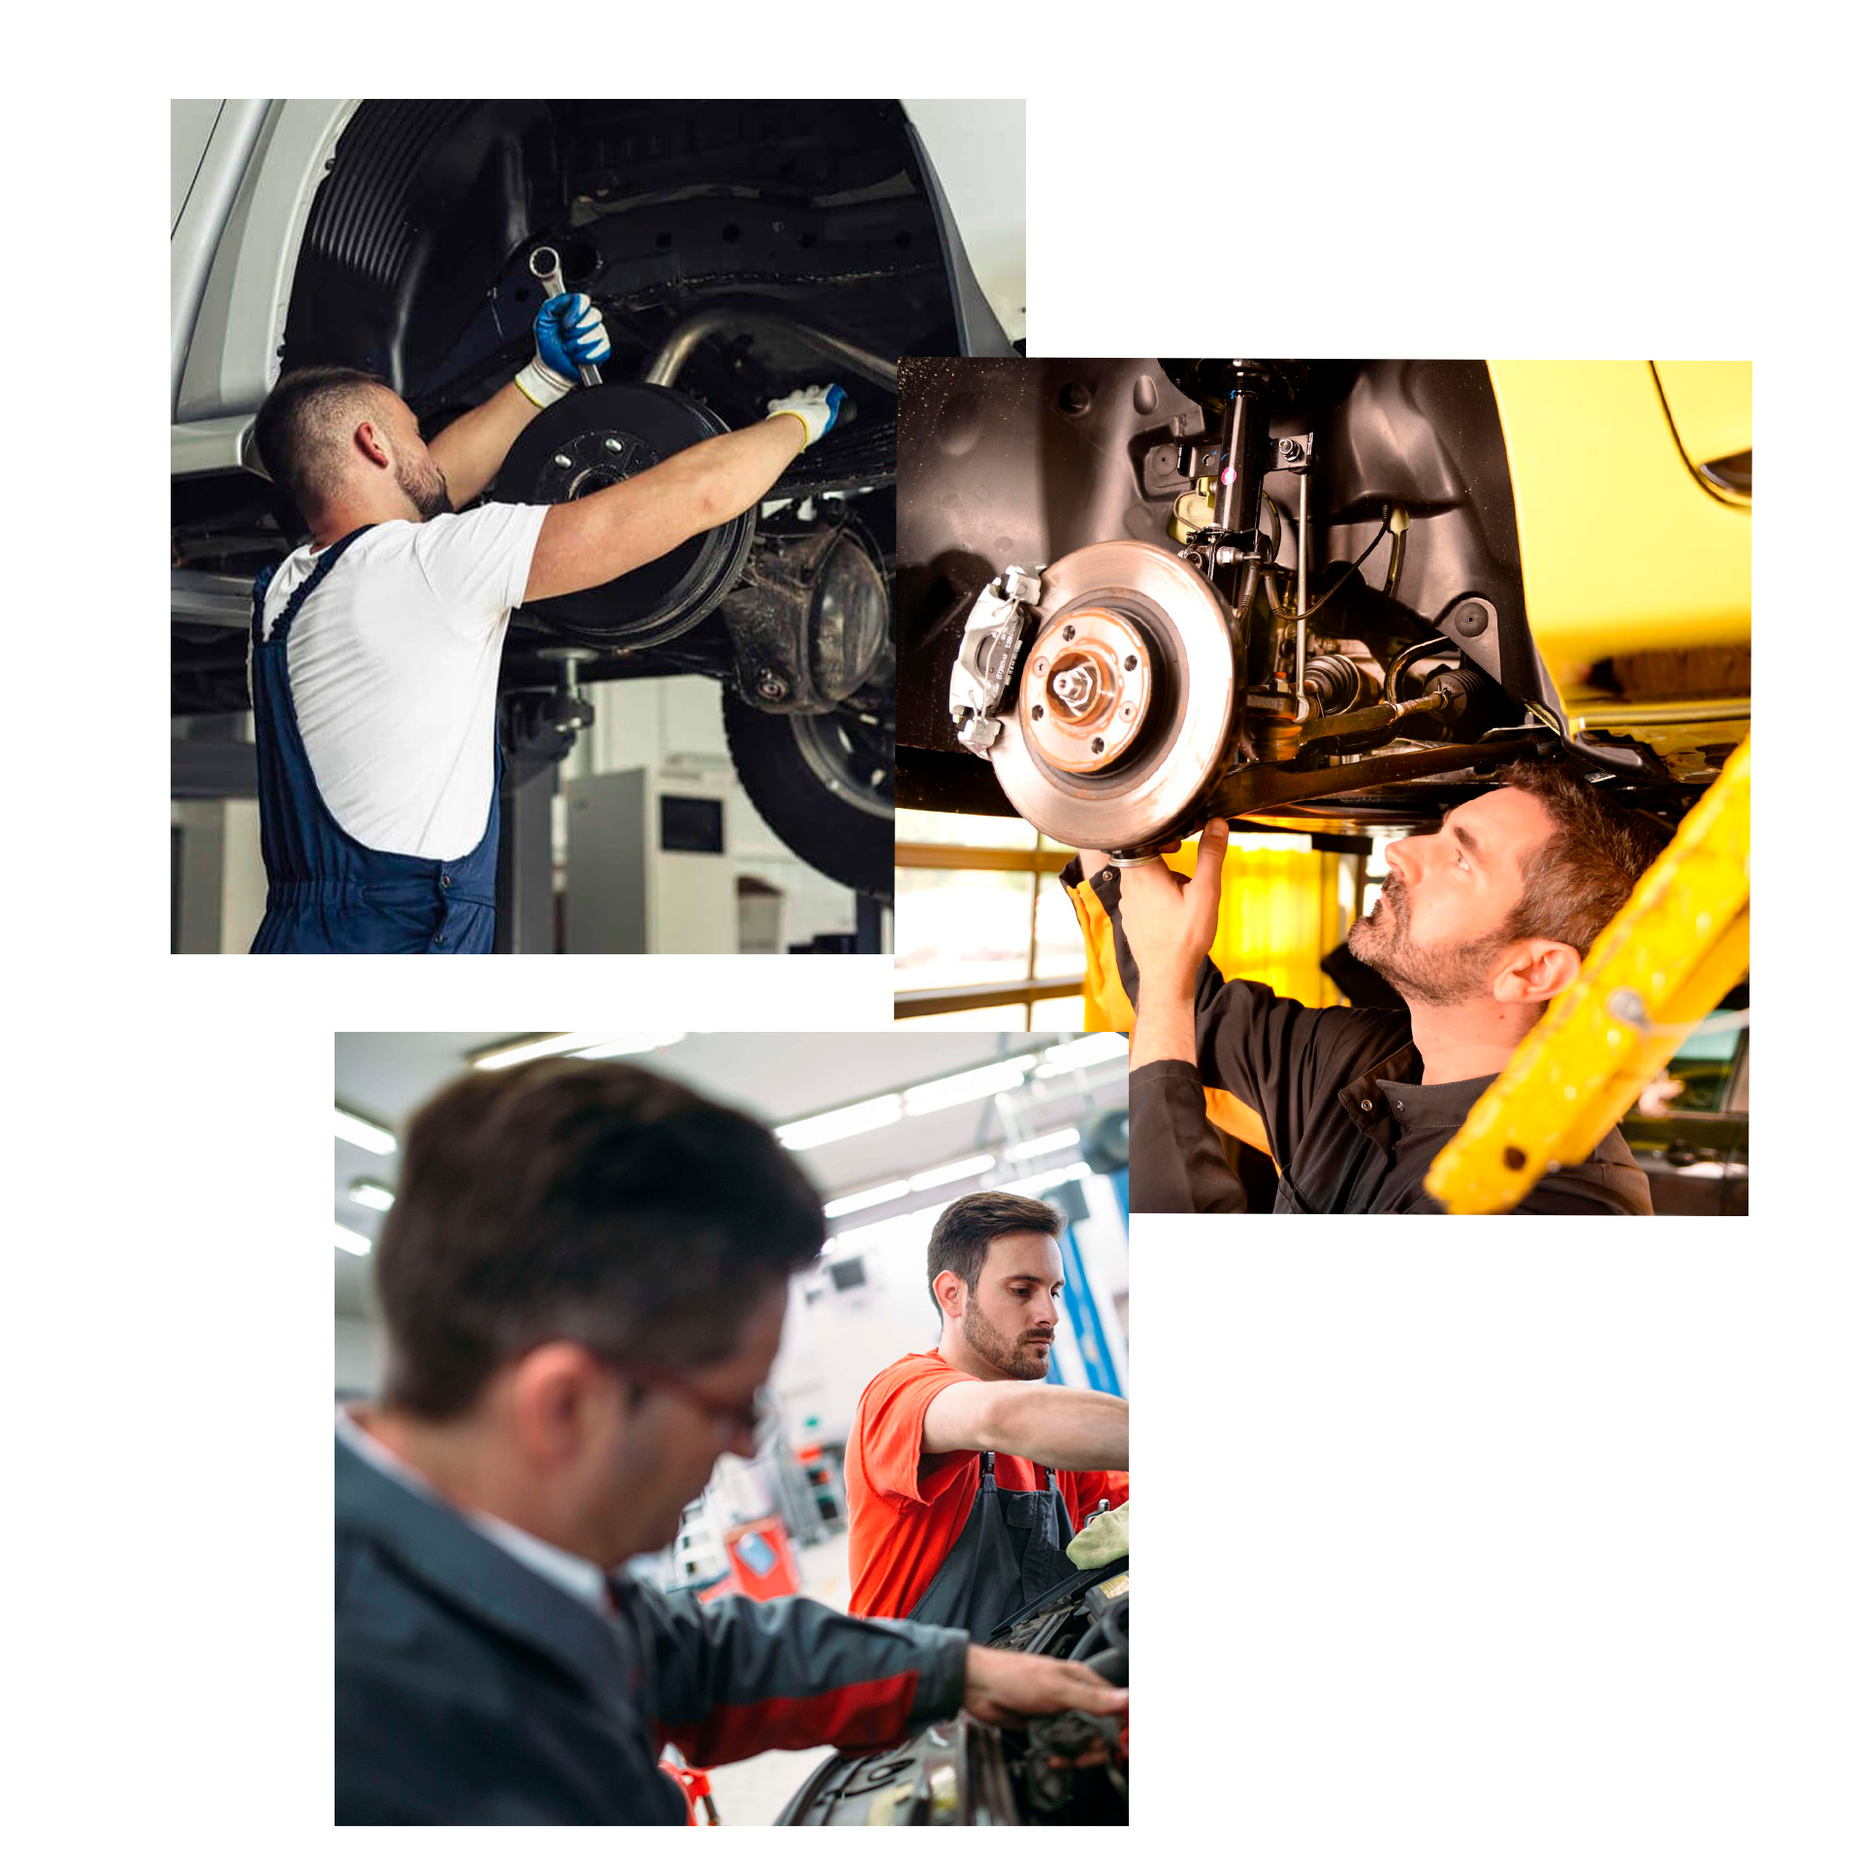
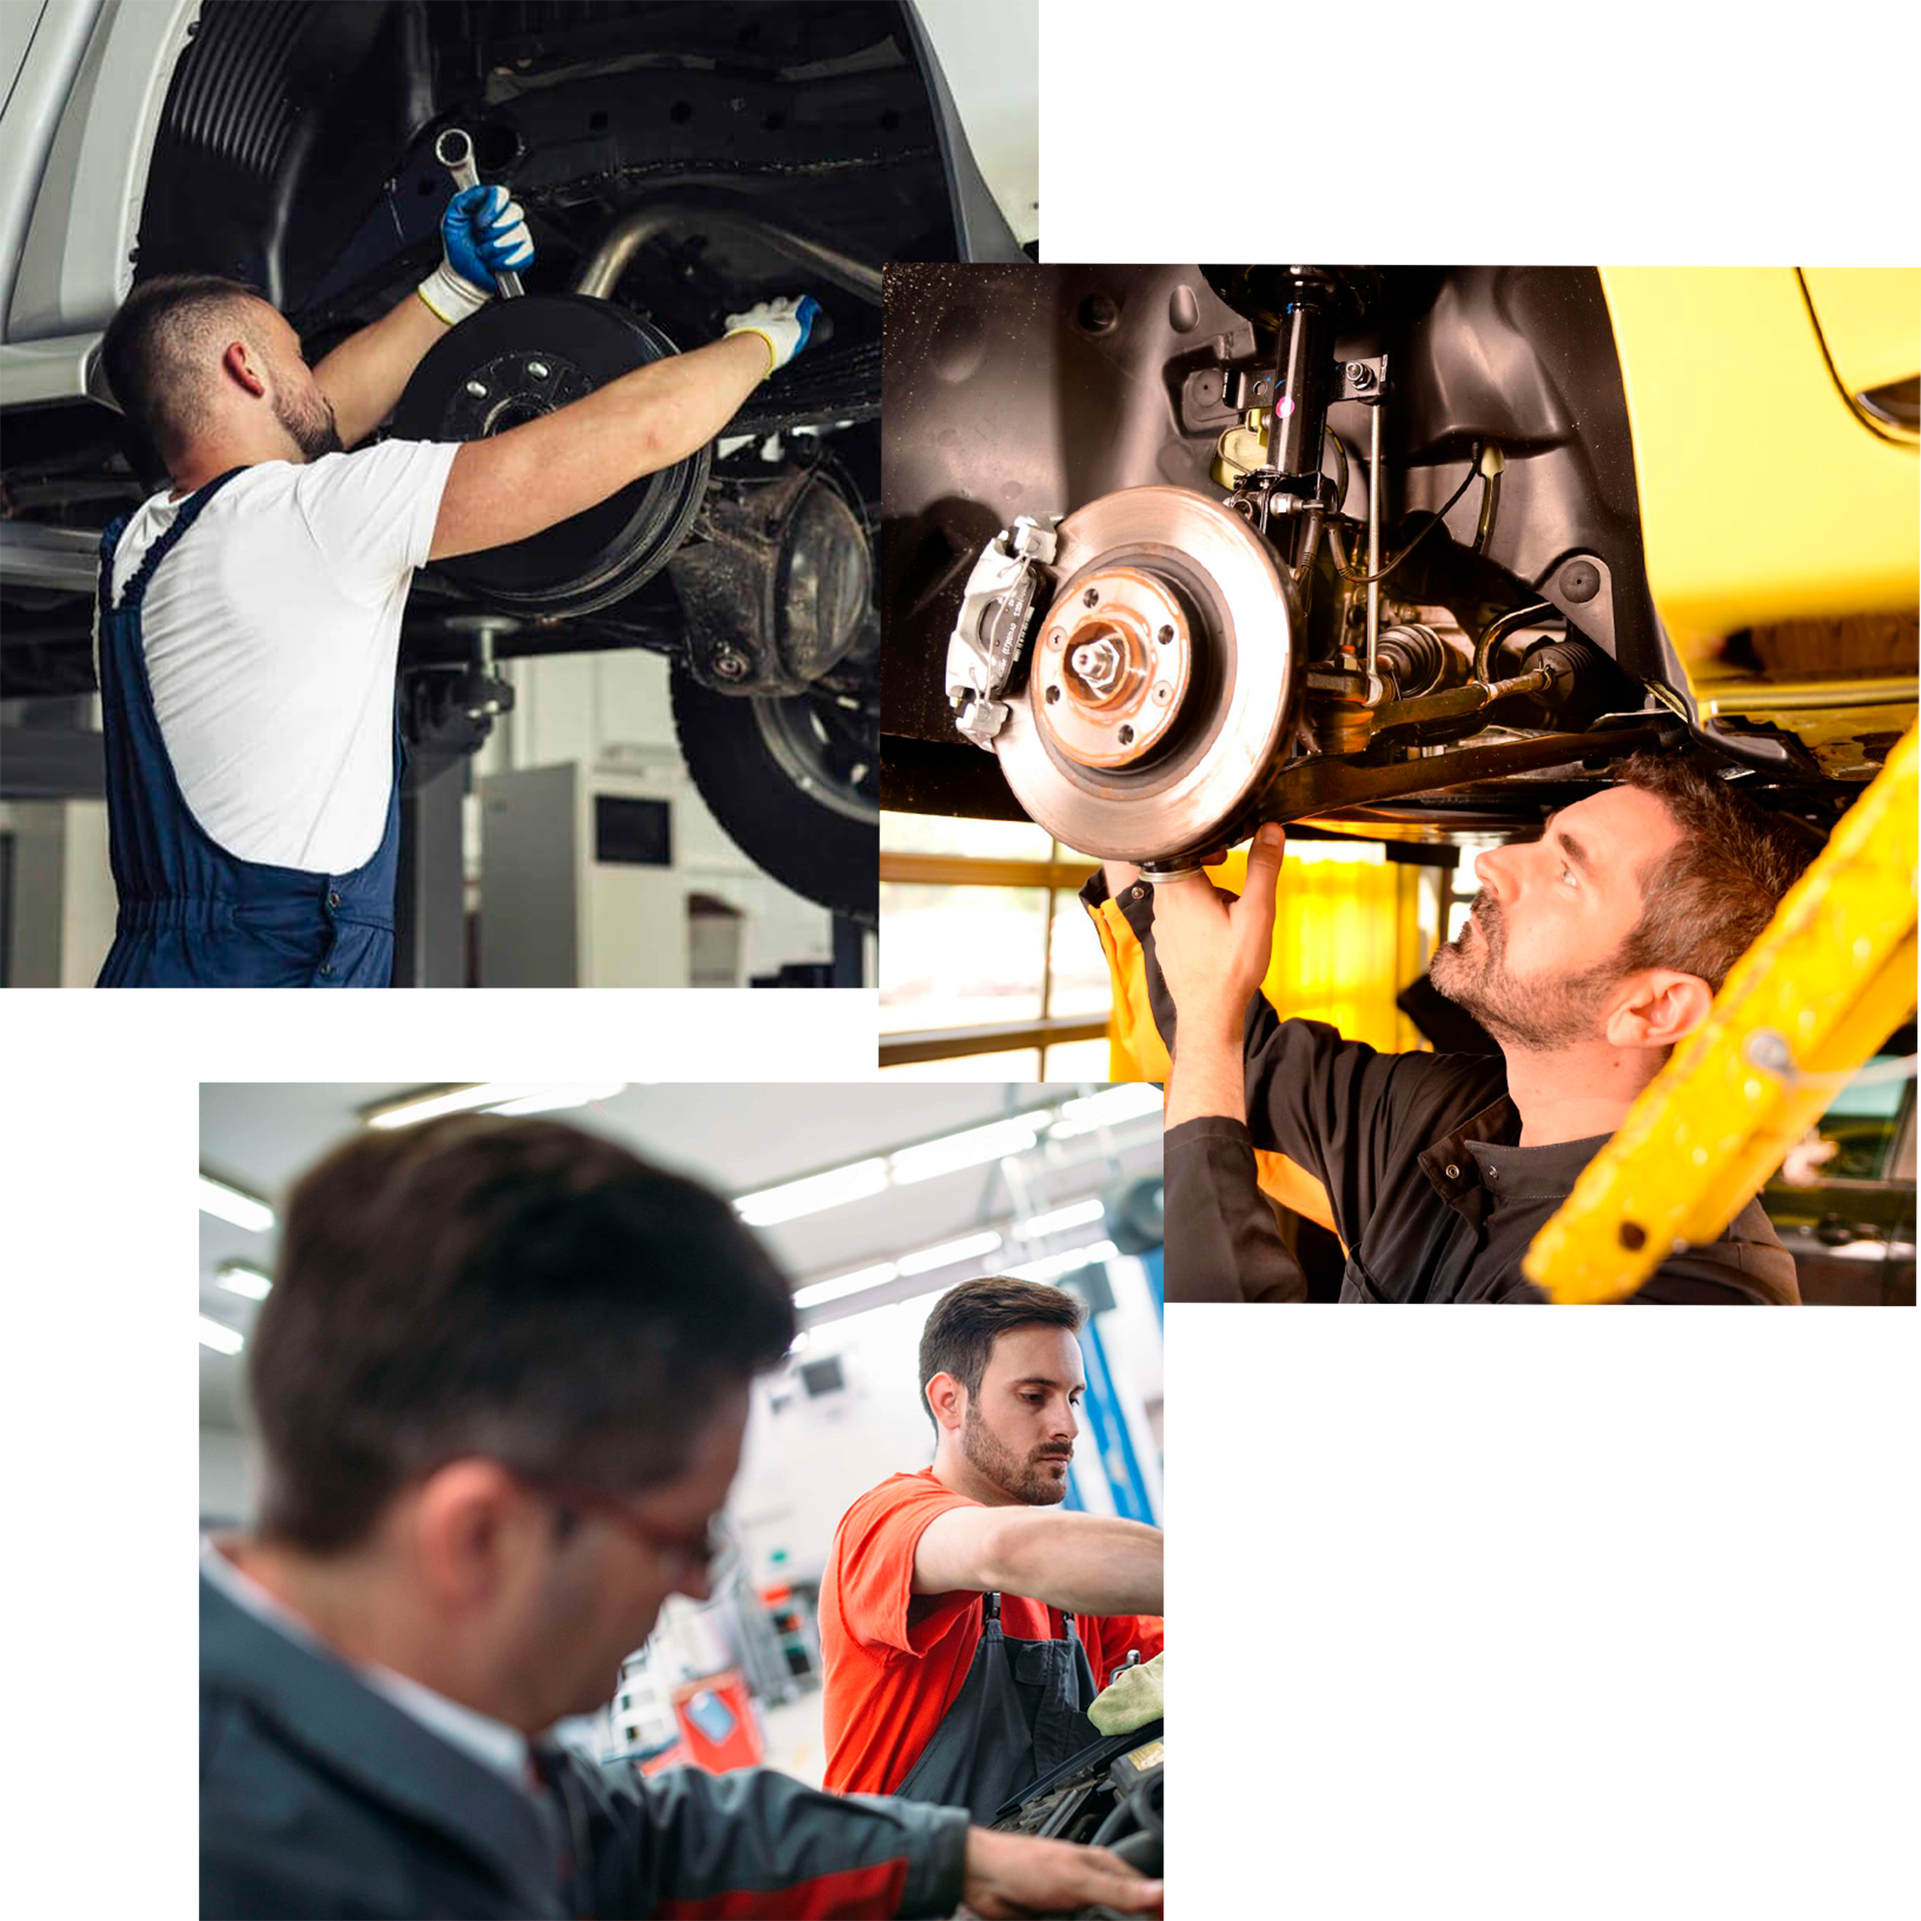
Atualização pag

diff --git a/partials/_layout.scss b/partials/_layout.scss
@@ -1,9 +1,9 @@
-
 .container{
-    max-width: 1440px;
-    margin: 0 auto;
-    padding: 0 8px;
-  }
+  max-width: 1440px;
+  margin: 0 auto;
+  padding: 0 90px;
+}
+
   
   // BG HOME
   
@@ -70,6 +70,8 @@
           width: 100%;
         }
       }
+
+      
 }
 
 //-- FINAL HERO --//
@@ -90,7 +92,8 @@
     align-items: center;
     justify-content: center;
     gap: 14px;
-    padding: 34px 14px 64px 14px;
+    padding: 34px 10px 64px 14px;
+    margin: 80px;
     img {
       max-width: 570px;
     }
@@ -122,11 +125,78 @@
         align-items: center;
         text-align: center;
       }
-    }
-
-    
-
-
-    
+    }  
   }
 
+  //----SERVIÇOS-----//
+
+  .services {
+    background-color: $white-normal;
+    color: $black-normal;
+    display: flex;
+    flex-direction: column;
+    align-items: center;
+    justify-content: center;
+    padding: 54px 14px;
+  }
+
+  .servicesContent h2 {
+    text-transform: uppercase;
+    text-align: center;
+    font-size: 38px;
+    margin-bottom: 14px;
+  }
+
+  .servicesContent p {
+    line-height: 150%;
+    margin-bottom: 14px;
+    text-align: center;
+    max-width: 780px;
+  }
+
+  .tipesServices {
+    display: flex;
+    justify-content: center;
+    align-items: center;
+    gap: 14px;
+    padding: 0 44px 34px 44px;
+  }
+  
+  .service {
+    flex: 1;
+    display: flex;
+    flex-direction: column;
+    background-color: $white-normal;
+    border-radius: 8px;
+    box-shadow: 0 -2px 17px -4px rgba($color: #000, $alpha: 0.8);
+    overflow: hidden;
+
+    img {
+      width: 100%;
+      max-width: 354px;
+      transition: transform 0.4s;
+    }
+
+  }
+
+  .service img:hover {
+    transform: scale(1.4);
+    z-index: 1;
+  }
+
+  .serviceInfo {
+    width: 100%;
+    display: flex;
+    justify-content: space-between;
+    padding: 14px;
+    background-color: $white-normal;
+    z-index: 99;
+  }
+
+  .serviceInfo button {
+    background-color: $red-light;
+    color: $white-normal;
+    padding: 3px 5px;
+    border: none;
+    border-radius: 5px;
+  }

diff --git a/index.html b/index.html
@@ -58,7 +58,7 @@
     </div>
      <!-- ABOUT -->
      <section class="about">
-        <div class="container about-content">
+        <div class="about-content container">
             <div class="imgContainer">
                 <img 
                 src="../Mecanica-dev/assets/serviços.png" 
@@ -75,5 +75,42 @@
         </div>
     </section>
 
+    <!--Services-->
+    <section class="services">
+        <div class="servicesContent container">
+            <h2>Serviços</h2>
+            <p>Lorem ipsum dolor sit amet consectetur adipisicing elit. Nisi qui expedita perspiciatis quas aspernatur magni, sed rem repellat veritatis, obcaecati quaerat eveniet aliquam laudantium asperiores fugit, doloribus aut ducimus perferendis?</p>
+
+        </div>
+        <section class="tipesServices container">
+            <div class="service">
+                <img src="../Mecanica-dev/assets/img1.jpg" alt="cortando o cabelo">
+                <div class="serviceInfo">
+                    <strong>Revisão</strong>
+                    <button>R$200,00</button>
+                </div>
+            </div>
+            <div class="service">
+                <img src="../Mecanica-dev/assets/img2.jpg" alt="cortando o cabelo">
+                <div class="serviceInfo">
+                    <strong>Revisão</strong>
+                    <button>R$200,00</button>
+                </div>
+            </div>
+            <div class="service">
+                <img src="../Mecanica-dev/assets/img3.jpg" alt="cortando o cabelo">
+                <div class="serviceInfo">
+                    <strong>Revisão</strong>
+                    <button>R$200,00</button>
+                </div>
+            </div>
+            <div>
+
+            </div>
+            <div>
+
+            </div>
+        </section>
+    </section>
 </body>
 </html>

diff --git a/style.css b/style.css
@@ -83,7 +83,7 @@ i {
 .container {
   max-width: 1440px;
   margin: 0 auto;
-  padding: 0 8px;
+  padding: 0 90px;
 }
 
 .bg-home {
@@ -154,7 +154,8 @@ i {
   align-items: center;
   justify-content: center;
   gap: 14px;
-  padding: 34px 14px 64px 14px;
+  padding: 34px 10px 64px 14px;
+  margin: 80px;
 }
 .about-content img {
   max-width: 570px;
@@ -184,6 +185,75 @@ i {
     text-align: center;
   }
 }
+.services {
+  background-color: white;
+  color: #232224;
+  display: flex;
+  flex-direction: column;
+  align-items: center;
+  justify-content: center;
+  padding: 54px 14px;
+}
+
+.servicesContent h2 {
+  text-transform: uppercase;
+  text-align: center;
+  font-size: 38px;
+  margin-bottom: 14px;
+}
+
+.servicesContent p {
+  line-height: 150%;
+  margin-bottom: 14px;
+  text-align: center;
+  max-width: 780px;
+}
+
+.tipesServices {
+  display: flex;
+  justify-content: center;
+  align-items: center;
+  gap: 14px;
+  padding: 0 44px 34px 44px;
+}
+
+.service {
+  flex: 1;
+  display: flex;
+  flex-direction: column;
+  background-color: white;
+  border-radius: 8px;
+  box-shadow: 0 -2px 17px -4px rgba(0, 0, 0, 0.8);
+  overflow: hidden;
+}
+.service img {
+  width: 100%;
+  max-width: 354px;
+  transition: transform 0.4s;
+}
+
+.service img:hover {
+  transform: scale(1.4);
+  z-index: 1;
+}
+
+.serviceInfo {
+  width: 100%;
+  display: flex;
+  justify-content: space-between;
+  padding: 14px;
+  background-color: white;
+  z-index: 99;
+}
+
+.serviceInfo button {
+  background-color: #d34040;
+  color: white;
+  padding: 3px 5px;
+  border: none;
+  border-radius: 5px;
+}
+
 .bg-home::before {
   content: "";
   display: block;
